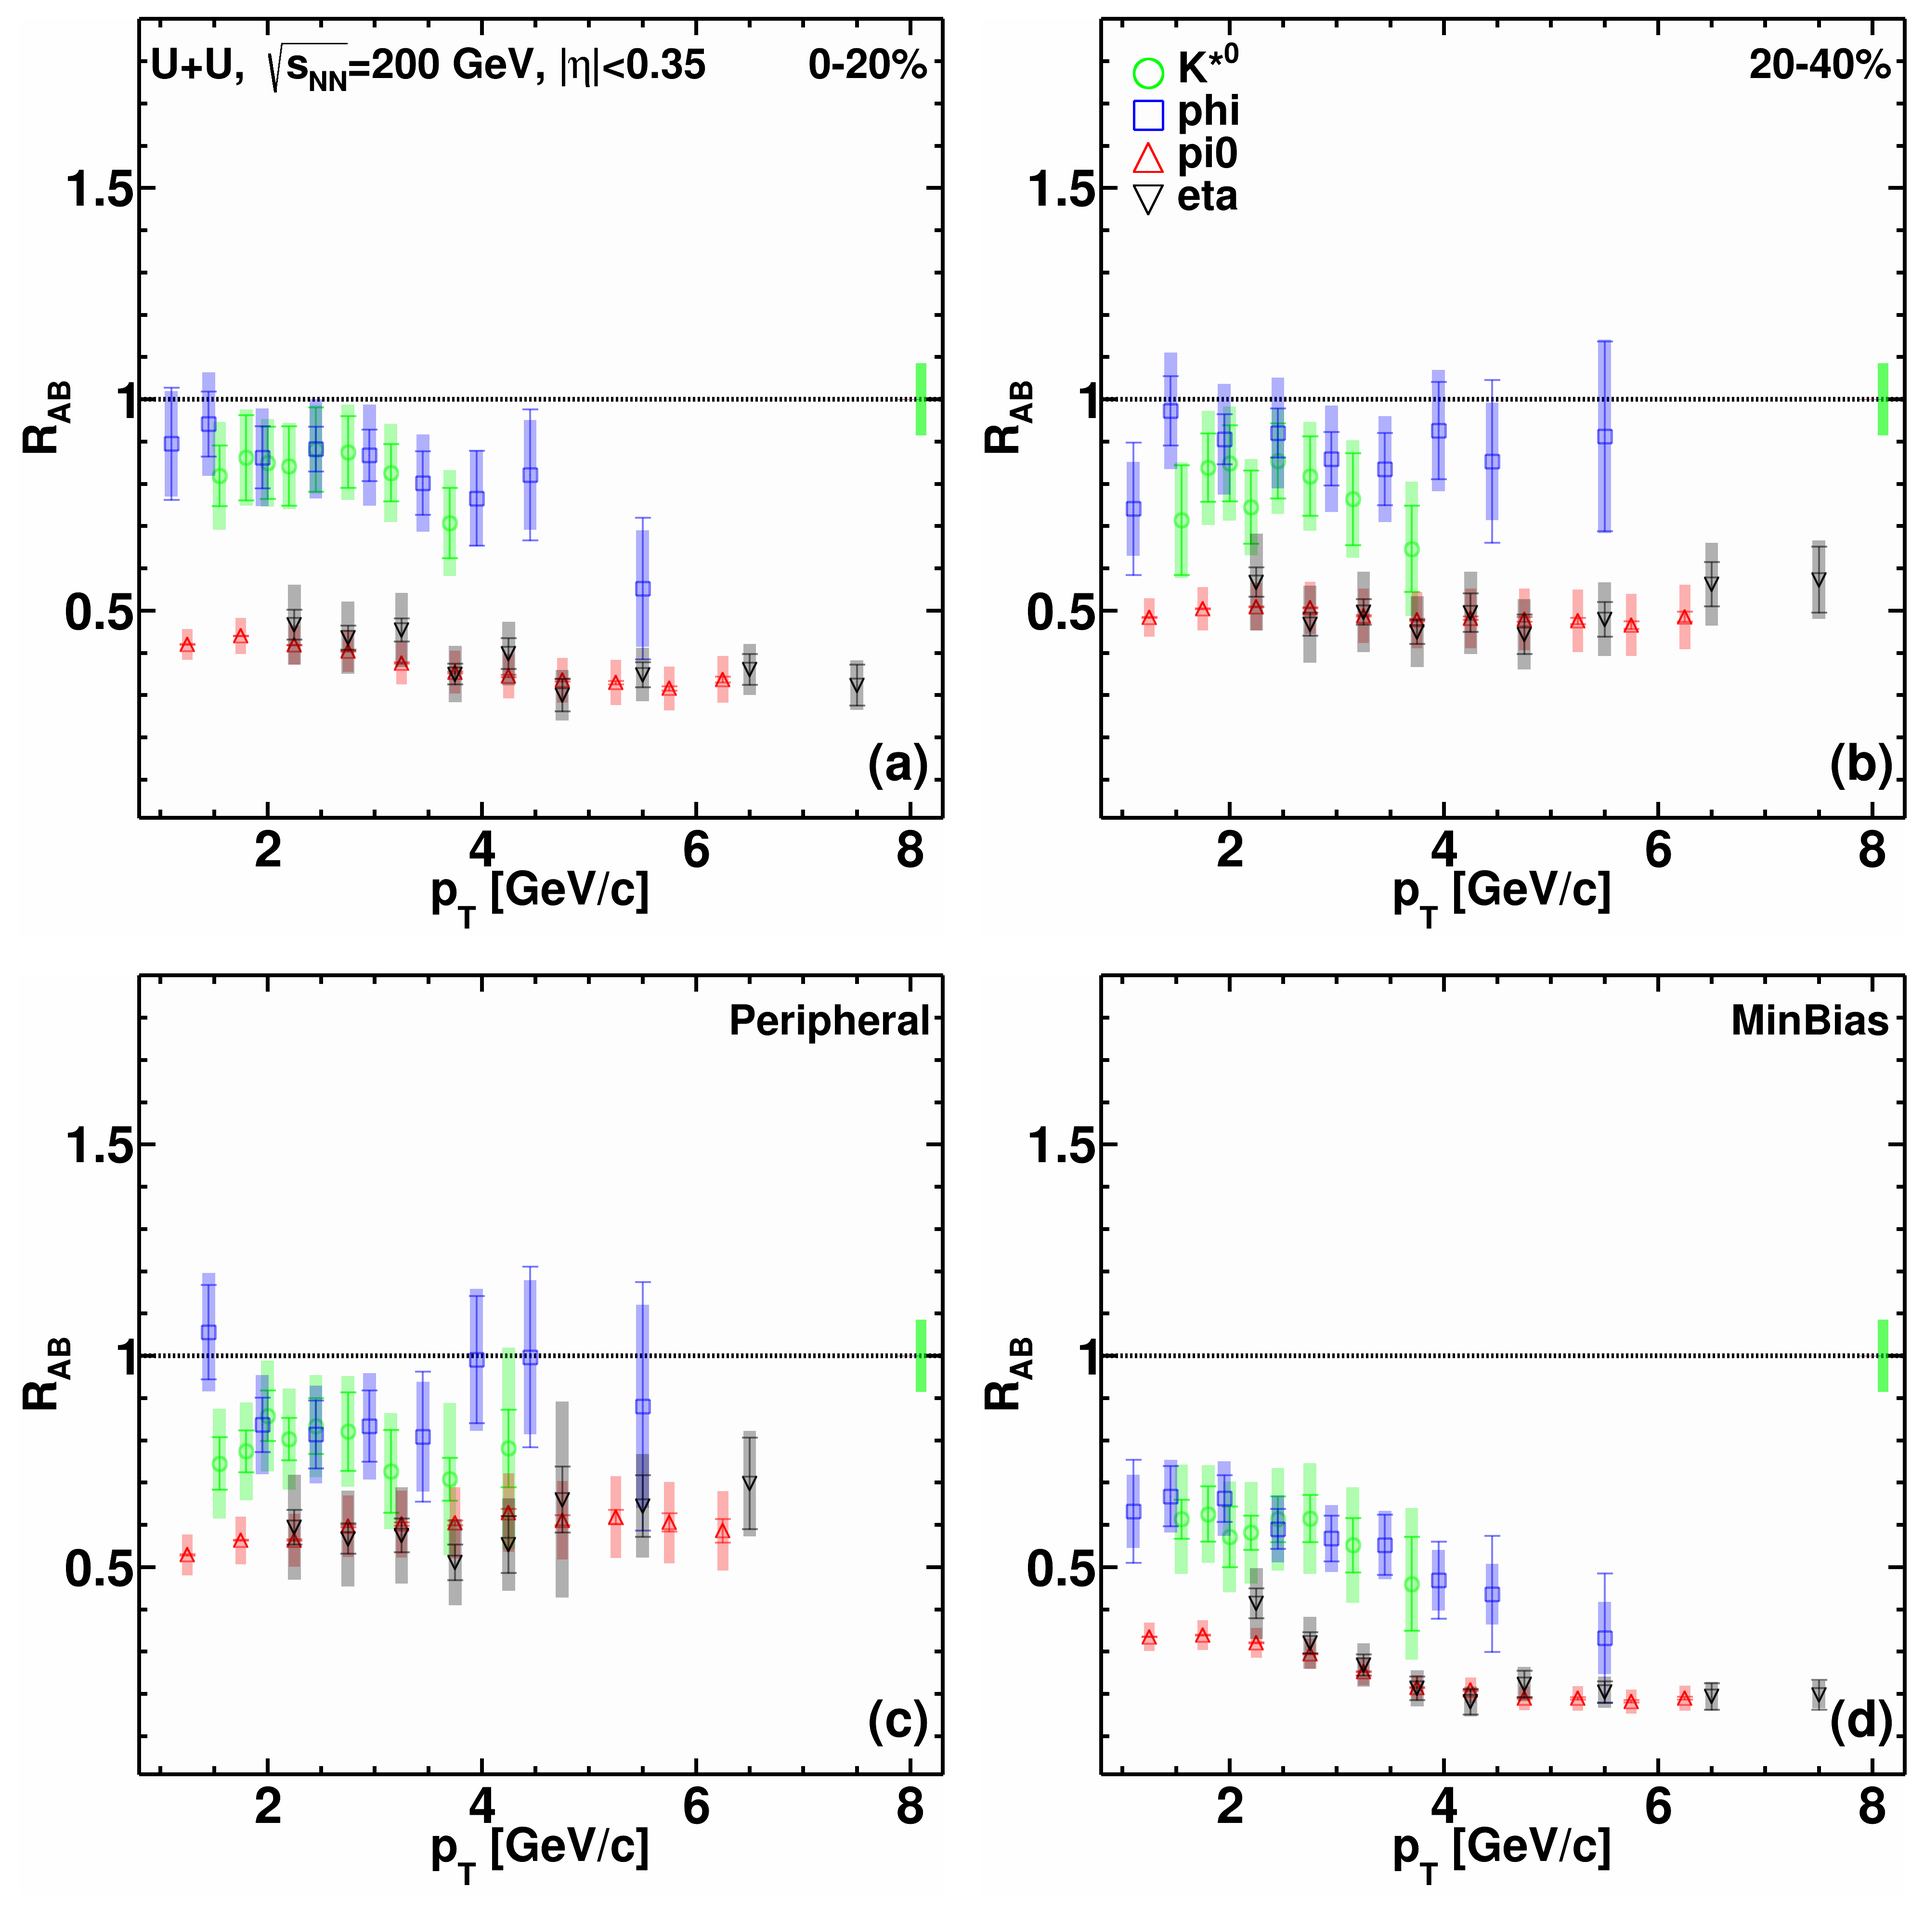
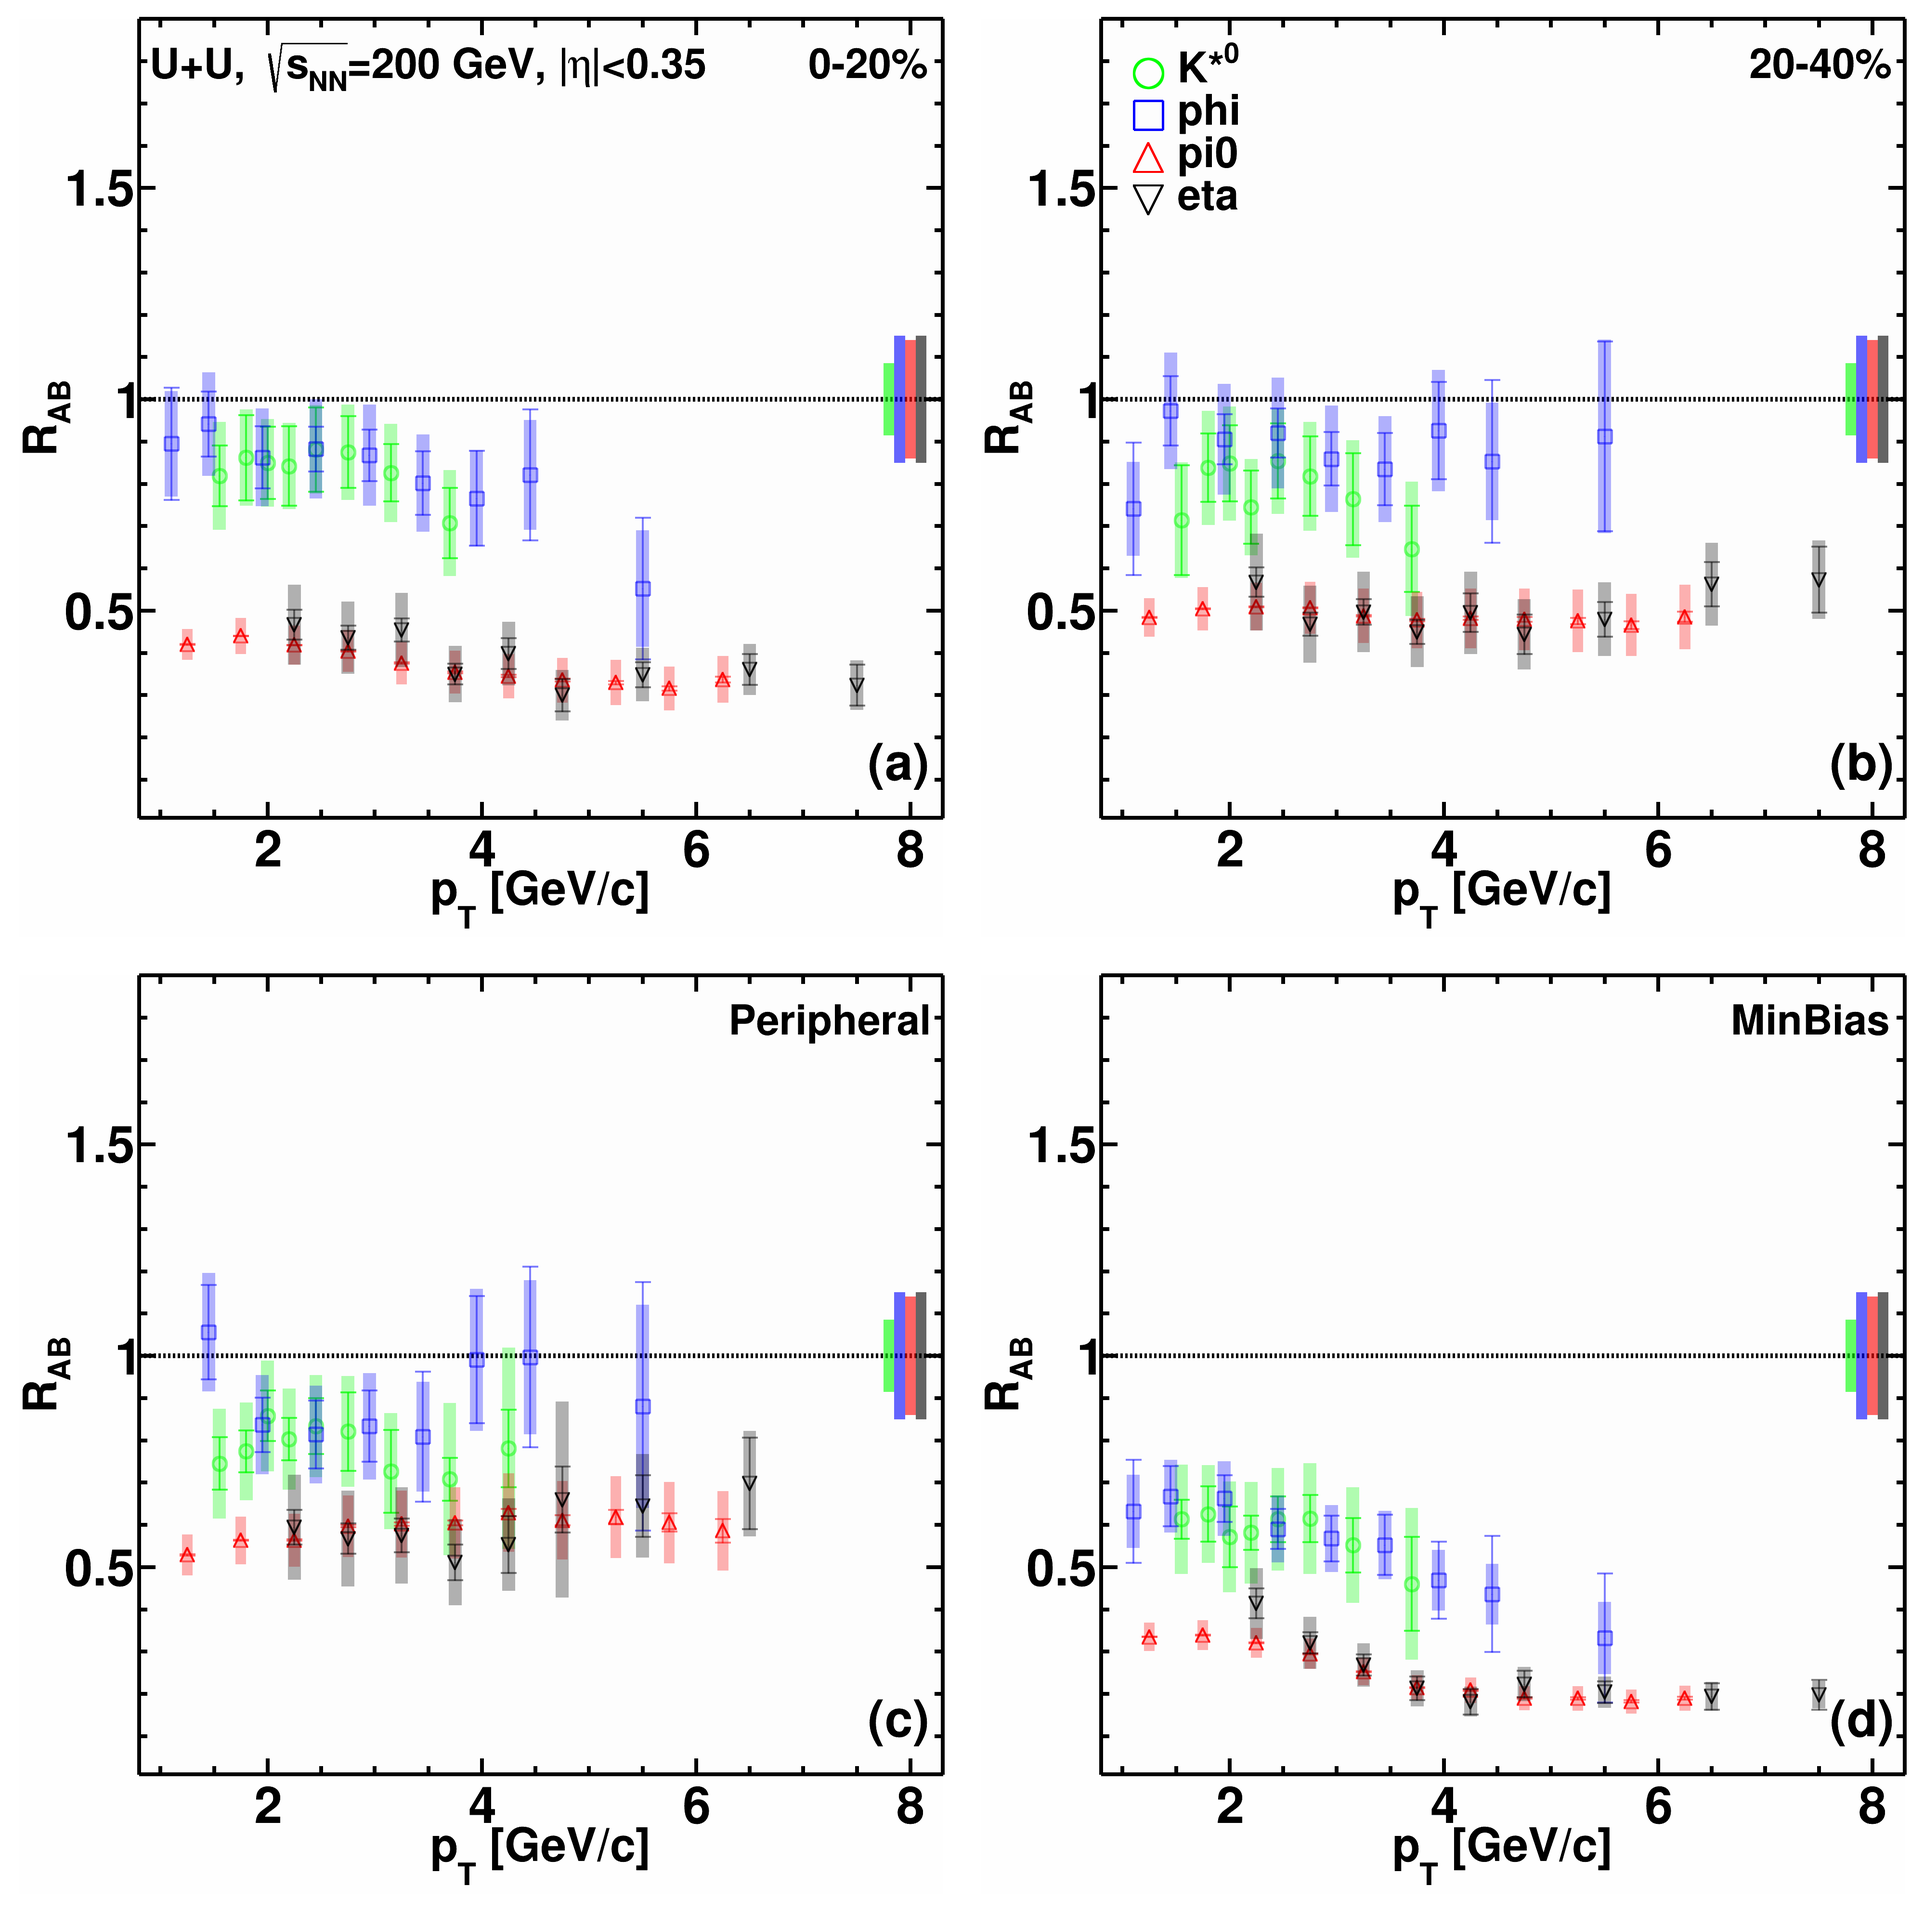
changes typec

diff --git a/plotter.cpp b/plotter.cpp
@@ -1231,23 +1231,23 @@ void plotter_rab_uu_phi_pi_eta() {
     auto kstar_uu = new Particles("rab_kstar_uu", 4, n_kstar_uu, kGreen, 107);
     kstar_uu->rab_format_graph(4, 4, 0.7);
     kstar_uu->rab_format_graph_sys(0.06, 10, 0.3);
-    kstar_uu->type_c_format(8.1, 0.05);
+    kstar_uu->type_c_format(7.8, 0.05);
 
     auto kstar_phi_uu = new Particles("rab_phi_uu", 4, n_phi_uu, kBlue, 108);
     kstar_phi_uu->rab_format_graph(4, 4, 0.5);
     kstar_phi_uu->rab_format_graph_sys(0.06, 10, 0.3);
-    kstar_phi_uu->type_c_format(8.04, 0.05);
+    kstar_phi_uu->type_c_format(7.9, 0.05);
 
     auto kstar_pi0_uu = new Particles("rab_pi0_uu", 4, n_pi0_uu, kRed, 91);
     kstar_pi0_uu->rab_format_graph(4, 4, 0.5);
     kstar_pi0_uu->rab_format_graph_sys(0.05, 10, 0.3);
-    kstar_pi0_uu->type_c_format(7.98, 0.05);
+    kstar_pi0_uu->type_c_format(8, 0.05);
 
     auto kstar_eta_uu = new Particles("rab_eta_uu", 4, n_eta_uu, kBlack, 95);
     kstar_pi0_uu->set_sys_errors();
     kstar_eta_uu->rab_format_graph(4, 4, 0.5);
     kstar_eta_uu->rab_format_graph_sys(0.06, 10, 0.3);
-    kstar_eta_uu->type_c_format(7.92, 0.05);
+    kstar_eta_uu->type_c_format(8.1, 0.05);
 
 
     auto legend = new TLegend(0.4, 0.78, 0.15, 1.01);
